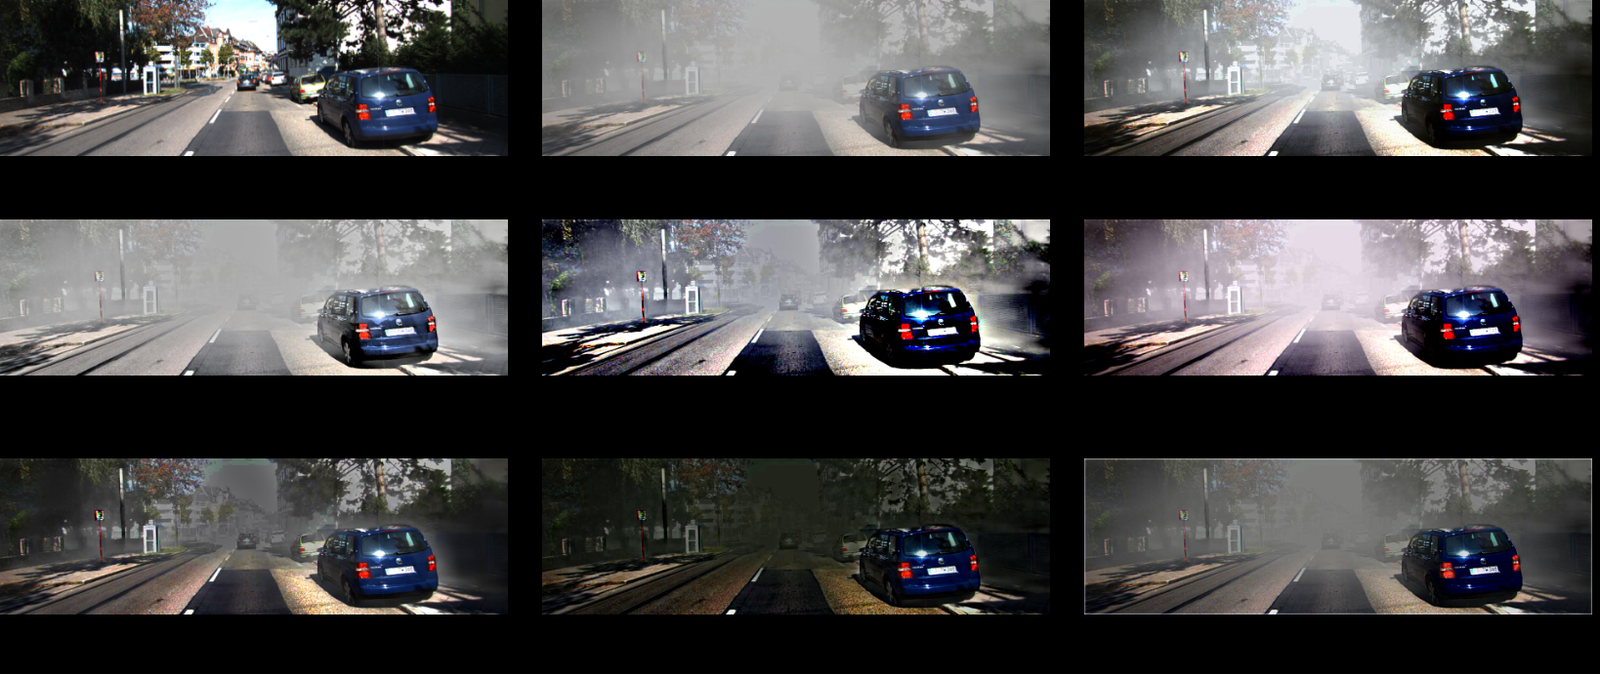
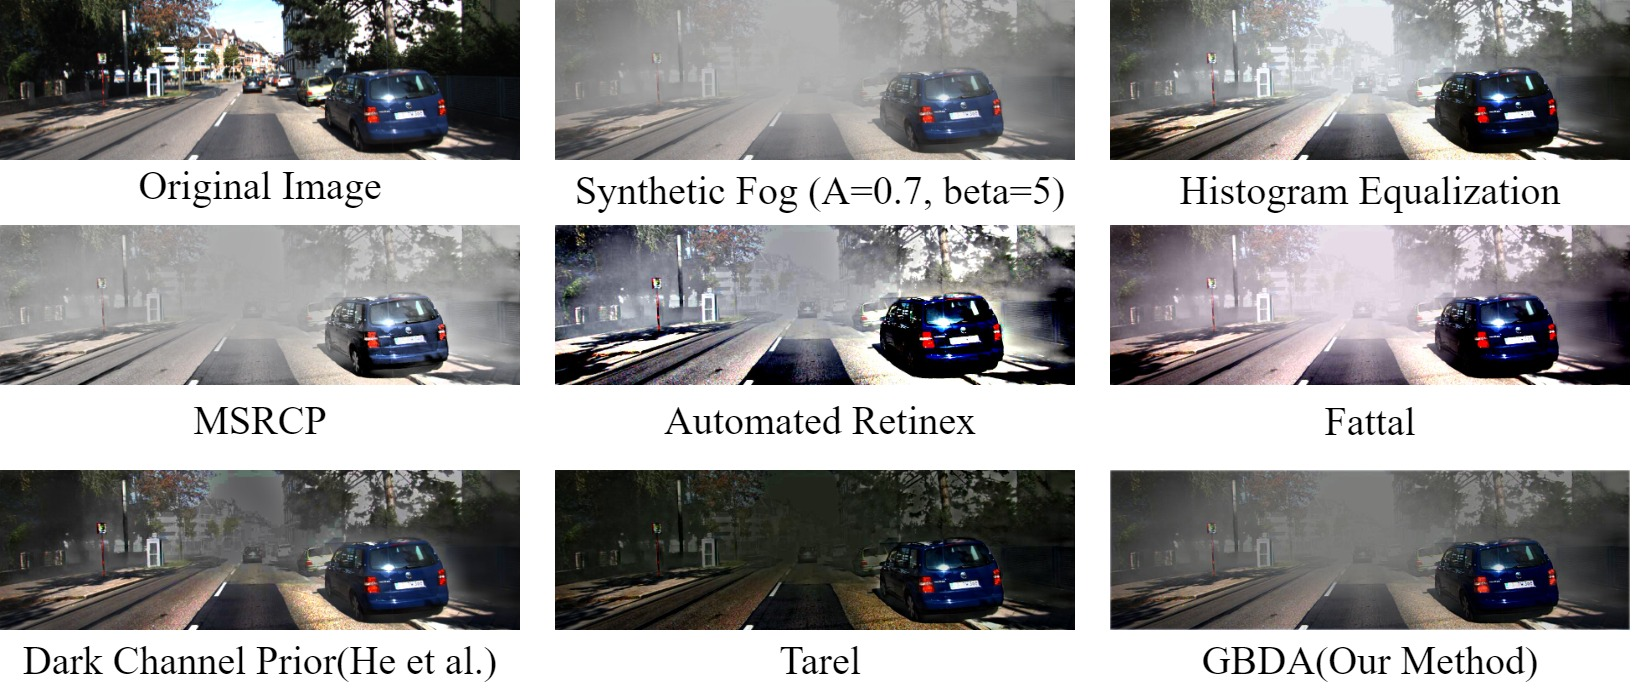
Homepage: white-bg thesis figures (user re-export), CARLA fog dataset card, plate recognition + classical + GBDA card images, skill priority reorder

diff --git a/index.html b/index.html
@@ -72,6 +72,7 @@
   .card{background:var(--card);border:1px solid var(--line);border-radius:10px;padding:18px 20px;box-shadow:var(--shadow);transition:transform .15s,box-shadow .15s}
   .card:hover{transform:translateY(-2px);box-shadow:0 8px 20px rgba(13,43,80,.12)}
   .card img{width:100%;height:160px;object-fit:cover;object-position:center;border-radius:8px;border:1px solid var(--line);margin-bottom:12px}
+  .card img.figimg{object-fit:contain;background:#fff}
   .card h3{font-size:1rem;color:var(--navy);margin-bottom:4px}
   [data-theme="dark"] .card h3{color:var(--ink)}
   .card .kind{font-size:.73rem;font-weight:700;color:var(--blue);text-transform:uppercase;letter-spacing:.06em;margin-bottom:6px}
@@ -123,9 +124,9 @@
   <p class="tag">I turn hard visual problems into deployed systems — from foggy-image dehazing and object detection to pattern recognition and LLM-powered AI workflows.</p>
   <div class="pills">
     <span class="pill">Python</span><span class="pill">PyTorch</span><span class="pill">OpenCV</span>
-    <span class="pill">C++</span><span class="pill">Golang</span><span class="pill">FastAPI</span>
-    <span class="pill">Nest.js</span><span class="pill">Docker</span><span class="pill">vLLM</span>
-    <span class="pill">Deep Learning</span><span class="pill">Pattern Recognition</span>
+    <span class="pill">C++</span><span class="pill">Deep Learning</span><span class="pill">Pattern Recognition</span>
+    <span class="pill">Docker</span><span class="pill">vLLM</span><span class="pill">Golang · FastAPI</span>
+    <span class="pill">Nest.js</span>
   </div>
   <div class="links">
     <a class="btn solid" href="#projects">View projects</a>
@@ -135,10 +136,10 @@
 
 <section id="about"><div class="wrap">
   <h2>About</h2>
-  <p class="sub">I'm a Computer Vision and AI Engineer with an M.Sc. in Computer Science (Artificial Intelligence) from Amirkabir University of Technology and 5+ years across AI research, production backend, and mobile development. I like working where research meets shipping — from a Master's thesis in foggy-image dehazing with 3 academic papers, to real-time stock platforms, agentic AI workflows, and LLM serving at scale.</p>
+  <p class="sub">I'm a Computer Vision and AI Engineer with an M.Sc. in Computer Science (Artificial Intelligence) from Amirkabir University of Technology and 5+ years across AI research, production backend, and mobile development. I like working where research meets shipping — from a Master's thesis in foggy-image dehazing with 1 conference paper, to real-time stock platforms, agentic AI workflows, and LLM serving at scale.</p>
   <div class="stats">
     <div class="stat"><b>5+</b><span>years in software &amp; AI</span></div>
-    <div class="stat"><b>3</b><span>academic papers</span></div>
+    <div class="stat"><b>1</b><span>conference paper (plate recognition)</span></div>
     <div class="stat"><b>10+</b><span>dehazing methods benchmarked</span></div>
     <div class="stat"><b>8+</b><span>products led to cloud deployment</span></div>
   </div>
@@ -160,11 +161,13 @@
   <div class="cards">
 
     <div class="card"><div class="kind">Research · Deep Learning</div>
+      <img class="figimg" src="assets/gbda-architecture.png" alt="GBDA Net architecture: dehazing autoencoder with object-visibility-aware loss" loading="lazy">
       <h3>GBDA Net — Dehazing with Object-Visibility-Aware Loss</h3>
       <p>Master's thesis: single-image dehazing autoencoder trained with IoU of YOLOv5 detections, improving vehicle detection in fog by 22% for ADAS.</p>
       <span class="tech">PyTorch · YOLOv5 · KITTI · RESIDE</span></div>
 
     <div class="card"><div class="kind">Research · CV</div>
+      <img class="figimg" src="assets/classical-dehazing-methods.png" alt="Taxonomy of classical defogging methods: image restoration and image enhancement" loading="lazy">
       <h3>Classical Dehazing Methods Survey</h3>
       <p>Reproduced DCP, Retinex, CLAHE, Fattal and Tarel from the papers with per-method contrast metrics (SSIM, PSNR, UQI, no-reference) in MATLAB + Python.</p>
       <span class="tech">MATLAB · Python · OpenCV</span></div>
@@ -176,9 +179,16 @@
       <span class="tech">YOLOv5 · KITTI</span></div>
 
     <div class="card"><div class="kind">Deep Learning</div>
+      <img src="assets/license-plate-recognition.png" alt="Persian license plates: reference plates and synthetic test variations" loading="lazy">
       <h3>Persian License Plate Recognition</h3>
       <p>89%+ accuracy under challenging conditions with YOLO, CAPSNET and U-Net on a synthetic dataset of 10,000+ plates. Paper submitted.</p>
       <span class="tech">YOLO · CAPSNET · U-Net</span></div>
+
+    <div class="card"><div class="kind">Research · Synthetic Data</div>
+      <img class="figimg" src="assets/carla-simulator-pipeline.png" alt="Aerial CARLA simulator street scenes at increasing fog density" loading="lazy">
+      <h3>Forging Fog — CARLA Synthetic Fog Dataset</h3>
+      <p>Thousands of clean/foggy street-scene pairs generated in the CARLA simulator with controlled depth and fog density, extending the dehazing training pipeline beyond real-world KITTI/RESIDE.</p>
+      <span class="tech">CARLA · Python · OpenCV</span></div>
 
     <div class="card"><div class="kind">Backend · Golang</div>
       <h3>Sahmnak — Real-Time Stock Simulator</h3>
